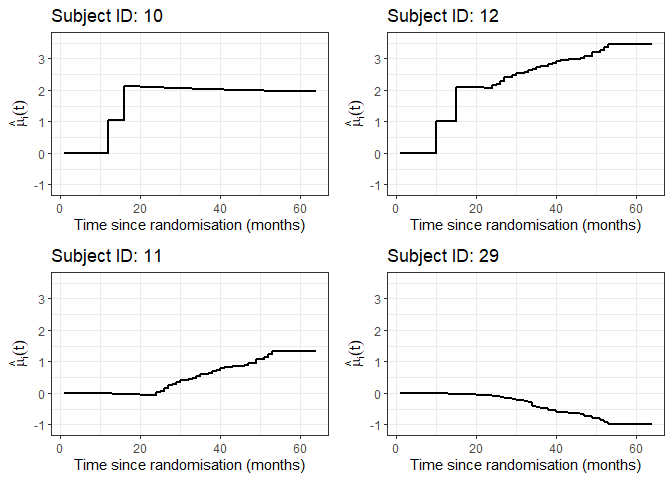
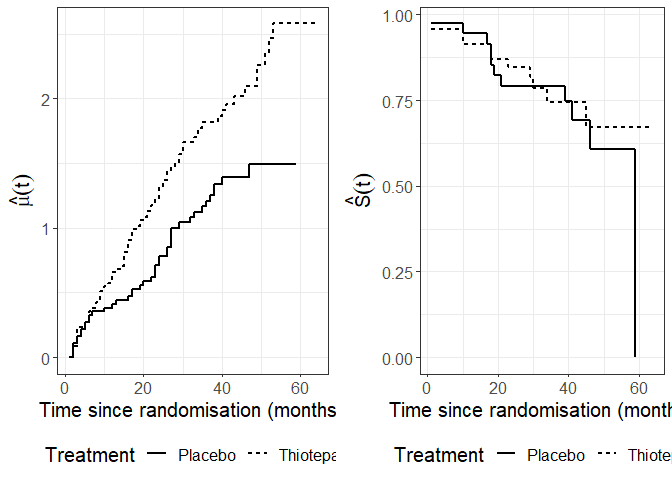
minor corrections

diff --git a/README.md b/README.md
@@ -164,7 +164,7 @@ are estimated using generalised estimating equations (GEE), see Liang
 and Zeger (*Longitudinal data analysis using generalized linear models
 (1986)*).
 
-The GEE procedure can accommodate the fact that each individual can have
+The GEE procedure accommodates the fact that each individual can have
 several (pseudo-)observations.
 
 ## One-dimensional pseudo-observations
@@ -256,17 +256,11 @@ require(devtools)
 devtools::install_github("JulieKFurberg/recurrentpseudo", force = TRUE)
 #> cli      (3.2.0 -> 3.3.0) [CRAN]
 #> magrittr (2.0.2 -> 2.0.3) [CRAN]
-#> tibble   (3.1.6 -> 3.1.7) [CRAN]
-#> 
-#>   There is a binary version available but the source version is later:
-#>        binary source needs_compilation
-#> tibble  3.1.6  3.1.7              TRUE
-#> 
 #> Error in download.file(url, destfile, method, mode = "wb", ...) : 
 #>   kan ikke åbne adresse 'https://cloud.r-project.org/bin/windows/contrib/4.1/cli_3.3.0.zip'
 #> Error in download.file(url, destfile, method, mode = "wb", ...) : 
 #>   kan ikke åbne adresse 'https://cloud.r-project.org/bin/windows/contrib/4.1/magrittr_2.0.3.zip'
-#> * checking for file 'C:\Users\jukf\AppData\Local\Temp\RtmpApB8tu\remotes2df8701a2a54\JulieKFurberg-recurrentpseudo-a6dc090/DESCRIPTION' ... OK
+#> * checking for file 'C:\Users\jukf\AppData\Local\Temp\Rtmp42aACy\remotes43fc24002a5a\JulieKFurberg-recurrentpseudo-ef3d681/DESCRIPTION' ... OK
 #> * preparing 'recurrentpseudo':
 #> * checking DESCRIPTION meta-information ... OK
 #> * checking for LF line-endings in source and make files and shell scripts
@@ -275,6 +269,15 @@ devtools::install_github("JulieKFurberg/recurrentpseudo", force = TRUE)
 #> 
 
 require(recurrentpseudo)
+```
+
+``` r
+?pseudo.onedim
+#> starting httpd help server ... done
+?pseudo.twodim
+?pseudo.threedim
+
+?pseudo.geefit
 ```
 
 # Example - Bladder cancer data from survival package
@@ -856,7 +859,7 @@ bladsurv <- ggplot(aes(x = time, y = surv, linetype = treat), data = pdata) +
 blad_both <- grid.arrange(bladmu, bladsurv, ncol = 2)
 ```
 
-![](README_files/figure-gfm/unnamed-chunk-10-1.png)<!-- -->
+![](README_files/figure-gfm/unnamed-chunk-11-1.png)<!-- -->
 
 ``` r
 blad_both
@@ -866,8 +869,9 @@ blad_both
 #> 2 2 (1-1,2-2) arrange gtable[layout]
 ```
 
-Let’s make a plot displaying the pseudo-observations for a given
-individual over time
+Let’s make a plot displaying the pseudo-observations of
+![\\mu](https://latex.codecogs.com/png.image?%5Cdpi%7B110%7D&space;%5Cbg_white&space;%5Cmu "\mu")
+for a given individual over time
 
 ``` r
 pseudo_allt <- pseudo.twodim(tstart = bladdersub$start,
@@ -933,7 +937,7 @@ allp <- grid.arrange(pseudo_id10, pseudo_id12,
                      ncol = 2)
 ```
 
-![](README_files/figure-gfm/unnamed-chunk-11-1.png)<!-- -->
+![](README_files/figure-gfm/unnamed-chunk-12-1.png)<!-- -->
 
 ``` r
 allp
